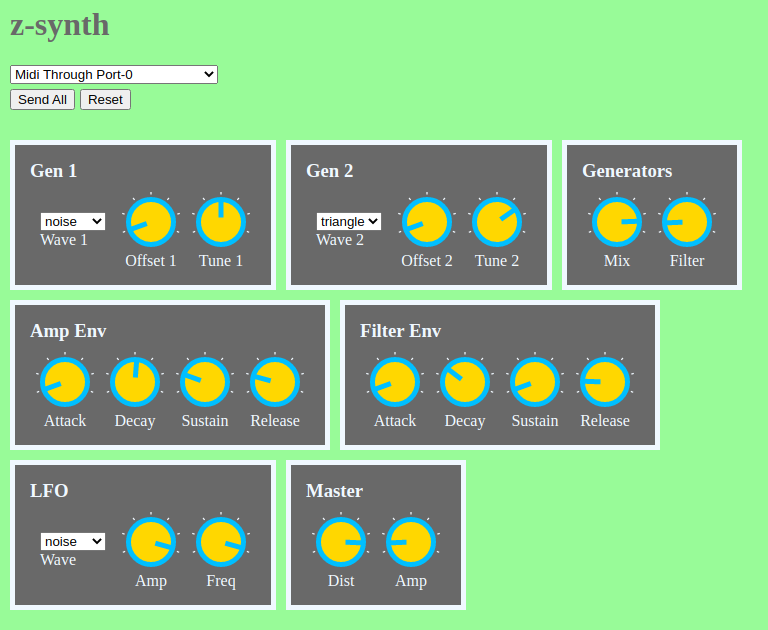
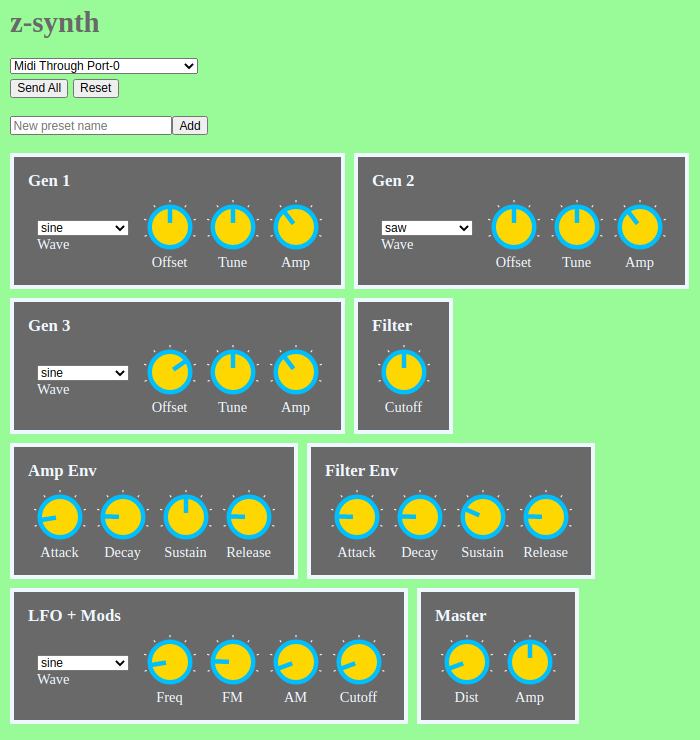
Add lfo mod control for gen amp, gen fm, filter cutoff

diff --git a/controller-web/js/params.js b/controller-web/js/params.js
@@ -15,7 +15,6 @@ const PARAM_FILTER_ENV_DECAY   = 0x0B;
 const PARAM_FILTER_ENV_SUSTAIN = 0x0C;
 const PARAM_FILTER_ENV_RELEASE = 0x0D;
 const PARAM_DISTORTION         = 0x0E;
-const PARAM_LFO_AMP            = 0x0F;
 const PARAM_LFO_FREQ           = 0x10;
 const PARAM_LFO_WAVE_TYPE      = 0x11;
 const PARAM_MASTER_AMP         = 0x12;
@@ -26,6 +25,9 @@ const PARAM_GEN3_COARSE_OFFSET = 0x16;
 const PARAM_GEN3_WAVE_TYPE     = 0x17;
 const PARAM_GEN2_AMP           = 0x18;
 const PARAM_GEN3_AMP           = 0x19;
+const PARAM_LFO_MOD_FREQ_AMT   = 0x1A;
+const PARAM_LFO_MOD_FILT_AMT   = 0x1B;
+const PARAM_LFO_MOD_AMP_AMT    = 0x1C;
 
 const PARAM_WAVE_OPTIONS = ["square", "sine", "triangle", "noise", "saw", "noise samp 8", "reverse saw"];
 
@@ -58,10 +60,13 @@ const DEFAULT_PARAM_VALUES = {
   [PARAM_FILTER_ENV_RELEASE]: 0.1,
 
   [PARAM_DISTORTION]: 0,
-  [PARAM_LFO_AMP]: 0.1,
   [PARAM_LFO_FREQ]: 0.05,
   [PARAM_LFO_WAVE_TYPE]: PARAM_WAVE_OPTIONS[1],
   [PARAM_MASTER_AMP]: 0.5,
+
+  [PARAM_LFO_MOD_FREQ_AMT]: 0.1,
+  [PARAM_LFO_MOD_FILT_AMT]: 0,
+  [PARAM_LFO_MOD_AMP_AMT]: 0,
 };
 
 const PARAM_COMMANDS = (() => {
@@ -124,9 +129,11 @@ const PARAM_COMMANDS = (() => {
     ...args(PARAM_FILTER_ENV_SUSTAIN, linear()),
     ...args(PARAM_FILTER_ENV_RELEASE, linear()),
     ...args(PARAM_DISTORTION, linear()),
-    ...args(PARAM_LFO_AMP, linear()),
     ...args(PARAM_LFO_FREQ, linear()),
     ...args(PARAM_LFO_WAVE_TYPE, indexed(PARAM_WAVE_OPTIONS)),
+    ...args(PARAM_LFO_MOD_FREQ_AMT, linear()),
+    ...args(PARAM_LFO_MOD_FILT_AMT, linear()),
+    ...args(PARAM_LFO_MOD_AMP_AMT, linear()),
     ...args(PARAM_MASTER_AMP, linear()),
   };
 })();

diff --git a/controller-web/js/components/ParamControls.js b/controller-web/js/components/ParamControls.js
@@ -61,10 +61,12 @@ function ParamControls({params, onParamChanged}) {
         </ControlGroup>
       </div>
       <div className="flex-container-row">
-        <ControlGroup label="FM LFO">
+        <ControlGroup label="LFO + Mods">
           <SelectWithLabel label="Wave" {...selectArgs(PARAM_LFO_WAVE_TYPE, PARAM_WAVE_OPTIONS)} />
-          <KnobWithLabel label="Amp" {...knobArgs(PARAM_LFO_AMP)} />
           <KnobWithLabel label="Freq" {...knobArgs(PARAM_LFO_FREQ)} />
+          <KnobWithLabel label="FM" {...knobArgs(PARAM_LFO_MOD_FREQ_AMT)} />
+          <KnobWithLabel label="AM" {...knobArgs(PARAM_LFO_MOD_AMP_AMT)} />
+          <KnobWithLabel label="Cutoff" {...knobArgs(PARAM_LFO_MOD_FILT_AMT)} />
         </ControlGroup>
         <ControlGroup label="Master">
           <KnobWithLabel label="Dist" {...knobArgs(PARAM_DISTORTION)} />

diff --git a/src/z_synth_controller.cpp b/src/z_synth_controller.cpp
@@ -4,6 +4,7 @@
 #include "./elements/amp_element.h"
 #include "./elements/generator_element.h"
 #include "./elements/lowpass_filter_element.h"
+#include "./elements/math_mult_add_element.h"
 #include "./elements/mixer_element.h"
 #include "./elements/threaded_mixer_element.h"
 #include "./synth_utils/generator_functions.h"
@@ -13,6 +14,8 @@
 
 #include <cmath>
 
+// Defaults and ranges
+
 static constexpr float filterMinCutoffHz = 50;
 static constexpr float filterMaxCutoffHz = 20000;
 static constexpr float maxFmSemiToneRange = 3;
@@ -21,14 +24,21 @@ static constexpr float envelopeMaxAttack = 1;
 static constexpr float envelopeMaxDecay = 1;
 static constexpr float envelopeMinRelease = 0.01;
 static constexpr float envelopeMaxRelease = 5;
-static constexpr float minLFOFrequencyHz = 0.1;
-static constexpr float maxLFOFrequencyHz = 50;
-static constexpr float maxLFOAmp = 1;
+
+static constexpr float minLfoFrequencyHz = 0.1;
+static constexpr float maxLfoFrequencyHz = 50;
+static constexpr float defaultLfoFreqHz = 8;
+static constexpr float defaultLfoSendGenFM = 0.1;
+static constexpr float defaultLfoSendGenAm = 0;
+static constexpr float defaultLfoSendFilterCutoff = 0;
+
 static constexpr float maxMasterAmp = 1;
 static constexpr float defaultMasterAmp = maxMasterAmp * 0.5;
 static constexpr float defaultMasterOverdrive = 1;
 static constexpr float overdriveMultiplier = 64;
 static constexpr float maxGeneratorMixerWeight = 3;
+
+// Param numbers
 
 static constexpr uint8_t NRPN_MSB_VALUE = 0x10;
 
@@ -47,7 +57,6 @@ static constexpr uint8_t PARAM_FILTER_ENV_DECAY   = 0x0B;
 static constexpr uint8_t PARAM_FILTER_ENV_SUSTAIN = 0x0C;
 static constexpr uint8_t PARAM_FILTER_ENV_RELEASE = 0x0D;
 static constexpr uint8_t PARAM_DISTORTION         = 0x0E;
-static constexpr uint8_t PARAM_LFO_AMP            = 0x0F;
 static constexpr uint8_t PARAM_LFO_FREQ           = 0x10;
 static constexpr uint8_t PARAM_LFO_WAVE_TYPE      = 0x11;
 static constexpr uint8_t PARAM_MASTER_AMP         = 0x12;
@@ -58,6 +67,9 @@ static constexpr uint8_t PARAM_GEN3_COARSE_OFFSET = 0x16;
 static constexpr uint8_t PARAM_GEN3_WAVE_TYPE     = 0x17;
 static constexpr uint8_t PARAM_GEN2_AMP           = 0x18;
 static constexpr uint8_t PARAM_GEN3_AMP           = 0x19;
+static constexpr uint8_t PARAM_LFO_MOD_FREQ_AMT   = 0x1A;
+static constexpr uint8_t PARAM_LFO_MOD_FILT_AMT   = 0x1B;
+static constexpr uint8_t PARAM_LFO_MOD_AMP_AMT    = 0x1C;
 
 static const std::vector<std::function<float(float)>> generatorTable {
   square_function,
@@ -79,6 +91,9 @@ public:
 class PerVoiceController {
   // Component elements
   std::shared_ptr<GeneratorElement> lfoElement;
+  std::shared_ptr<MathMultAddElement> lfoSendGenFMElement;
+  std::shared_ptr<MathMultAddElement> lfoSendGenAmElement;
+  std::shared_ptr<MathMultAddElement> lfoSendFilterCutoffElement;
   std::shared_ptr<GeneratorElement> genElement1;
   std::shared_ptr<GeneratorElement> genElement2;
   std::shared_ptr<GeneratorElement> genElement3;
@@ -94,8 +109,12 @@ class PerVoiceController {
 
   void constructElems(AudioParams params) {
     lfoElement = std::make_shared<GeneratorElement>(params.sampleRateHz, sine_function);
-    lfoElement->setFrequency(8);
-    lfoElement->setAmplitude(0.05);
+    lfoElement->setFrequency(defaultLfoFreqHz);
+    lfoElement->setAmplitude(1);
+
+    lfoSendGenFMElement = std::make_shared<MathMultAddElement>(defaultLfoSendGenFM, 0);
+    lfoSendGenAmElement = std::make_shared<MathMultAddElement>(defaultLfoSendGenAm, 1);
+    lfoSendFilterCutoffElement = std::make_shared<MathMultAddElement>(defaultLfoSendFilterCutoff, 1);
 
     genElement1 = std::make_shared<GeneratorElement>(params.sampleRateHz, saw_function);
     genElement2 = std::make_shared<GeneratorElement>(params.sampleRateHz, sine_function);
@@ -122,9 +141,23 @@ class PerVoiceController {
   void constructWiring(AudioParams params, uint32_t i) {
     PipelineBuilder<float> builder;
 
+    // lfo
     char lfoName[20];
     snprintf(lfoName, sizeof(lfoName), "lfo-%d", i);
     builder.registerElem(lfoName, lfoElement);
+
+    // lfo mod levels
+    char lfoSendGenFMName[20];
+    snprintf(lfoSendGenFMName, sizeof(lfoSendGenFMName), "lfo-send-fm-%d", i);
+    builder.registerElem(lfoSendGenFMName, lfoSendGenFMElement);
+
+    char lfoSendGenAmName[20];
+    snprintf(lfoSendGenAmName, sizeof(lfoSendGenAmName), "lfo-send-am-%d", i);
+    builder.registerElem(lfoSendGenAmName, lfoSendGenAmElement);
+
+    char lfoSendFilterCutoffName[20];
+    snprintf(lfoSendFilterCutoffName, sizeof(lfoSendFilterCutoffName), "lfo-send-filt-%d", i);
+    builder.registerElem(lfoSendFilterCutoffName, lfoSendFilterCutoffElement);
 
     // generator1
     char gen1Name[20];
@@ -160,12 +193,21 @@ class PerVoiceController {
     snprintf(filterName, sizeof(filterName), "filter-%d", i);
     builder.registerElem(filterName, filterElement);
 
+    // lfo to sends
+    builder.connectElems(lfoName, lfoSendGenFMName, lfoSendGenFMElement->inputPortNumber());
+    builder.connectElems(lfoName, lfoSendGenAmName, lfoSendGenAmElement->inputPortNumber());
+    builder.connectElems(lfoName, lfoSendFilterCutoffName, lfoSendFilterCutoffElement->inputPortNumber());
+
     // generator mods
-    builder.connectElems(lfoName, gen1Name, genElement1->fmPortNumber());
-    builder.connectElems(lfoName, gen2Name, genElement2->fmPortNumber());
-    builder.connectElems(lfoName, gen3Name, genElement3->fmPortNumber());
+    builder.connectElems(lfoSendGenFMName, gen1Name, genElement1->fmPortNumber());
+    builder.connectElems(lfoSendGenFMName, gen2Name, genElement2->fmPortNumber());
+    builder.connectElems(lfoSendGenFMName, gen3Name, genElement3->fmPortNumber());
+    builder.connectElems(lfoSendGenAmName, gen1Name, genElement1->amPortNumber());
+    builder.connectElems(lfoSendGenAmName, gen2Name, genElement2->amPortNumber());
+    builder.connectElems(lfoSendGenAmName, gen3Name, genElement3->amPortNumber());
 
     // filter mods
+    builder.connectElems(lfoSendFilterCutoffName, adsrFilterName, adsrFilterElement->inputPortNumber());
     builder.connectElems(adsrFilterName, filterName, filterElement->modPortNumber());
 
     // gens -> mixer -> adsr amp -> filter
@@ -235,6 +277,7 @@ public:
     unsigned char paramValue,
     bool print
   ) {
+
     const auto normMidi = [](float val, float start = 0, float end = 1) {
       return linearScaleClamped(0, 127, start, end)(val);
     };
@@ -348,12 +391,8 @@ public:
       float release = normMidi(paramValue, envelopeMinRelease, envelopeMaxRelease);
       logger << "Set filter release time to " << release << std::endl;
       adsrFilterElement->setReleaseTime(release);
-    } else if (paramNumber == PARAM_LFO_AMP) {
-      float value = normMidi(paramValue) * maxLFOAmp;
-      logger << "Set LFO amp to " << value << std::endl;
-      lfoElement->setAmplitude(value);
     } else if (paramNumber == PARAM_LFO_FREQ) {
-      float value = normMidi(paramValue, minLFOFrequencyHz, maxLFOFrequencyHz);
+      float value = normMidi(paramValue, minLfoFrequencyHz, maxLfoFrequencyHz);
       logger << "Set LFO frequency to " << value << std::endl;
       lfoElement->setFrequency(value);
     } else if (paramNumber == PARAM_LFO_WAVE_TYPE) {
@@ -361,6 +400,18 @@ public:
         logger << "Set LFO wave " << static_cast<int>(paramValue) << std::endl;
         lfoElement->setValue(generatorTable[paramValue]);
       }
+    } else if (paramNumber == PARAM_LFO_MOD_FREQ_AMT) {
+      float value = normMidi(paramValue);
+      logger << "Set LFO mod gen freq amount " << value << std::endl;
+      lfoSendGenFMElement->setMultValue(value);
+    } else if (paramNumber == PARAM_LFO_MOD_FILT_AMT) {
+      float value = normMidi(paramValue);
+      logger << "Set LFO mod filter cutoff amount " << value << std::endl;
+      lfoSendFilterCutoffElement->setMultValue(value);
+    } else if (paramNumber == PARAM_LFO_MOD_AMP_AMT) {
+      float value = normMidi(paramValue);
+      logger << "Set LFO mod gen amp amount " << value << std::endl;
+      lfoSendGenAmElement->setMultValue(value);
     }
   }
 };

diff --git a/src/elements/math_mult_add_element.cpp b/src/elements/math_mult_add_element.cpp
@@ -1,0 +1,36 @@
+#include "./math_mult_add_element.h"
+
+#include <cstring>
+
+MathMultAddElement::MathMultAddElement(float multVal, float addVal)
+  : _multVal(multVal), _addVal(addVal) {
+}
+
+uint32_t MathMultAddElement::maxInputs() const {
+  return 1;
+}
+
+uint32_t MathMultAddElement::inputPortNumber() const {
+  return 0;
+}
+
+void MathMultAddElement::setMultValue(float value) {
+  _multVal = value;
+}
+
+void MathMultAddElement::setAddValue(float value) {
+  _addVal = value;
+}
+
+void MathMultAddElement::generate(uint32_t numSamples, float* out, uint32_t numInputs, inputs_t<float> inputs) {
+  const float *in = numInputs > 0 ? inputs[0] : nullptr;
+
+  if (in == nullptr) {
+    memset(out, 0, sizeof(float) * numSamples);
+    return;
+  }
+
+  for (uint32_t i = 0; i < numSamples; ++i) {
+    *(out++) = (*(in++) * _multVal) + _addVal;
+  }
+};

diff --git a/src/elements/math_mult_add_element.h b/src/elements/math_mult_add_element.h
@@ -1,0 +1,23 @@
+#ifndef MATH_MULT_ADD_ELEMENT_H
+#define MATH_MULT_ADD_ELEMENT_H
+
+#include "../pipeline/pipeline_element.h"
+
+// Multiply and add operation to the input.
+class MathMultAddElement: public AudioElement<float> {
+  float _multVal;
+  float _addVal;
+
+public:
+  MathMultAddElement(float multVal, float addVal);
+
+  uint32_t maxInputs() const override;
+  uint32_t inputPortNumber() const;
+
+  void setMultValue(float value);
+  void setAddValue(float value);
+
+  void generate(uint32_t numSamples, float* out, uint32_t numInputs, inputs_t<float> inputs) override;
+};
+
+#endif
